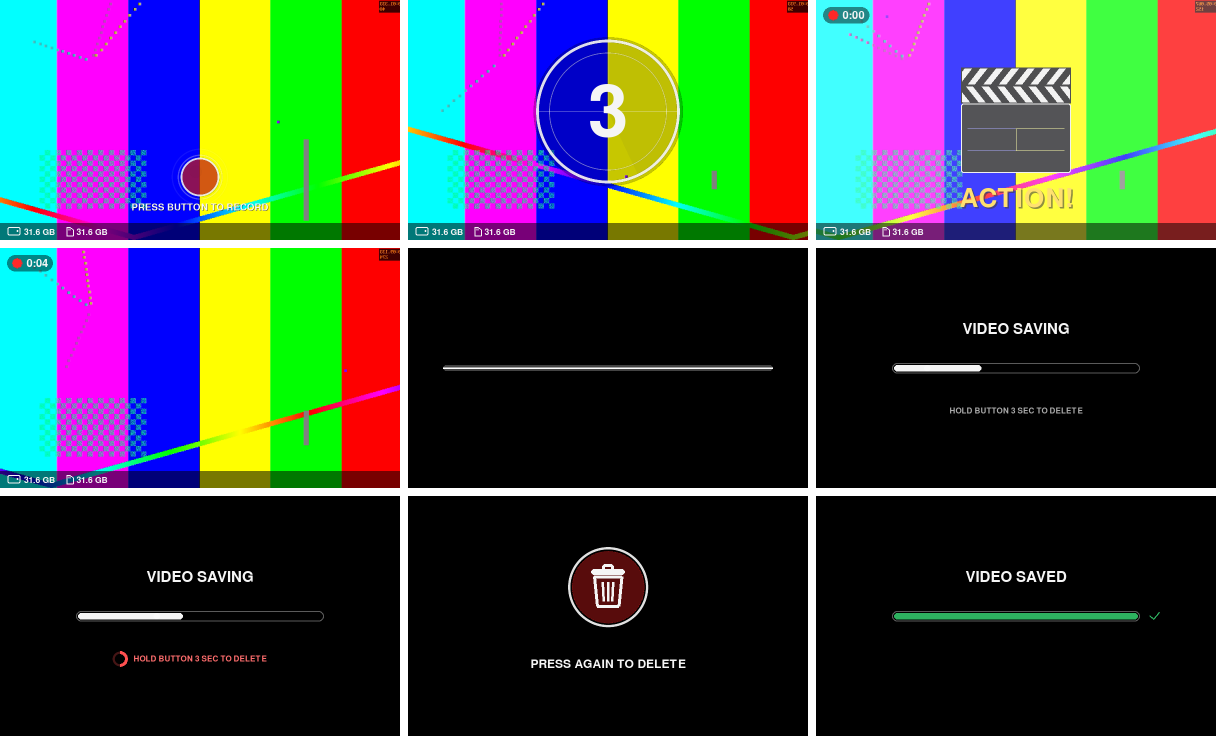
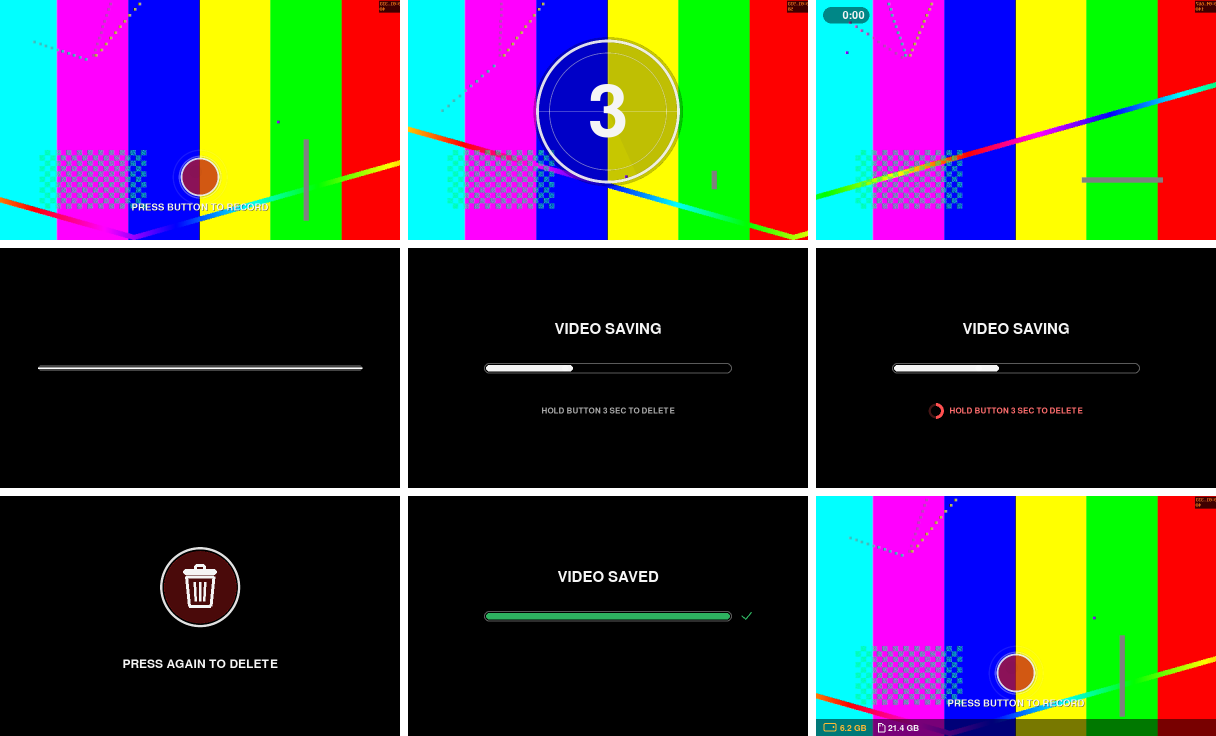
Confession Booth: hide free space until nearly full, ACTION! off by default
- The bottom bar only comes up when a drive has less than low_free_mb
  (8 GB) left. status_bar = "problems" or "always" brings back the
  previous behaviour.
- Recording starts straight after the 3-2-1; the clapperboard ACTION!
  animation is now opt-in (action_animation = true).

Claude-Session: https://claude.ai/code/session_01DPLfCfg8tPcdB8RBsJRF5o

diff --git a/booth/app.py b/booth/app.py
@@ -1,6 +1,6 @@
 """The booth: one screen, one button (with a light in it).
 
-idle --press--> 3-2-1 + clapperboard --> recording --press--> TV switch-off,
+idle --press--> 3-2-1 (+ clapperboard if switched on) --> recording --press--> TV switch-off,
 black --> "VIDEO SAVING" + loading bar (hold 3 s, then press again = delete)
 --> "VIDEO SAVED" --> idle.
 Hold the button for 30 s at any time: finish up, unmount the SSD, power off.
@@ -291,7 +291,8 @@ class App:
         el = now - self.state_t
         if self.state == "countdown":
             n = cfg["countdown_from"]
-            if el >= n + self.ui.CLAP_AT and self.recorder.action_at is None:
+            clap = self.ui.CLAP_AT if cfg["action_animation"] else 0.0
+            if el >= n + clap and self.recorder.action_at is None:
                 self.recorder.mark_action()
                 self.clapper_t0 = self.state_t + n
                 self.set_state("recording")
@@ -379,25 +380,39 @@ class App:
                 n = cfg["countdown_from"]
                 if el < n:
                     ui.countdown(n - int(el), el % 1.0)
-                else:
+                elif cfg["action_animation"]:
                     ui.clapper(el - n)
             elif st == "recording":
-                ui.clapper(now - self.clapper_t0)
+                if cfg["action_animation"]:
+                    ui.clapper(now - self.clapper_t0)
                 ui.recording(self.recorder.elapsed(),
                              cfg["max_record_seconds"] - self.recorder.elapsed(), now)
             elif st == "error":
                 ui.saved(False, el)
 
+        if now - self._snap_t > 0.5:
+            self._snap = self.storage.snapshot()
+            self._snap_t = now
         if st not in ("stopping", "review", "confirm", "deleted") and \
-                not (st == "done" and el < DONE_SHOW):
-            if now - self._snap_t > 0.5:
-                self._snap = self.storage.snapshot()
-                self._snap_t = now
+                not (st == "done" and el < DONE_SHOW) and self._status_visible(self._snap):
             ui.status_bar(self._snap, bool(self.mic), now)
 
         if self._hold_kind(now) == "shutdown":
             span = cfg["hold_shutdown_seconds"] - cfg["hold_feedback_after"]
             ui.hold((now - self.press_t - cfg["hold_feedback_after"]) / span)
+
+    def _status_visible(self, snap):
+        """The free-space bar only comes up when it matters (see status_bar setting)."""
+        mode = self.cfg["status_bar"]
+        if mode == "always":
+            return True
+        drives = [snap.get("ssd", {}), snap.get("sd", {})]
+        if any(d.get("low") for d in drives):
+            return True
+        if mode == "problems":
+            return bool(snap.get("damaged") or snap.get("undervolt") or not self.mic
+                        or any(d.get("level") in ("error", "missing") for d in drives))
+        return False
 
     def _draw_camera(self, now):
         if self.camera is None or (not self.camera.ok and self.state not in ("countdown",
@@ -437,7 +452,8 @@ class App:
         elif st == "idle":
             pattern = "idle" if self.camera and self.camera.ok else "problem"
         elif st == "countdown":
-            pattern = "countdown" if now - self.state_t < self.cfg["countdown_from"] else "action"
+            pattern = "countdown" if now - self.state_t < self.cfg["countdown_from"] \
+                or not self.cfg["action_animation"] else "action"
         elif st == "recording":
             pattern = "recording"
         elif st == "confirm":

diff --git a/booth/config.py b/booth/config.py
@@ -64,6 +64,9 @@ DEFAULTS = {
 
     # --- Recording --------------------------------------------------------
     "countdown_from": 3,
+    # Clapperboard + "ACTION!" after the countdown. Off = recording starts
+    # straight after "1".
+    "action_animation": False,
     "max_record_seconds": 300,   # auto stop
     "ignore_stop_for": 1.0,      # ignore a 2nd press right after ACTION
     # After STOP: TV switch-off, black, then the "saving" screen with a bar.
@@ -92,6 +95,10 @@ DEFAULTS = {
     "copy_mb_per_s_while_recording": 6,
 
     # --- Screen -----------------------------------------------------------
+    # Free-space bar at the bottom: "when_full" (only when a drive is nearly
+    # full, i.e. under low_free_mb), "problems" (also for drive faults, missing
+    # SSD/mic, power warnings) or "always".
+    "status_bar": "when_full",
     "fullscreen": True,
     "window_size": "800x480",    # only when fullscreen = false
     "idle_text": "PRESS BUTTON TO RECORD",

diff --git a/tests/run_headless.py b/tests/run_headless.py
@@ -84,7 +84,8 @@ print("recording mode:", app.mode)
 # ---- clip 1: keep
 press()
 run(0.4); shot("02_countdown")
-run(until=state("recording")); run(0.15); shot("03_action")
+run(until=state("recording")); run(0.15); shot("03_recording_starts")
+assert not app._status_visible(app._snap), "free-space bar should be hidden"
 run(4.0); shot("04_recording")
 press()
 run(0.12); shot("05_tv_off_squash")

diff --git a/booth/storage.py b/booth/storage.py
@@ -109,7 +109,7 @@ class Drive:
 
     def snapshot(self):
         return {"present": self.present, "level": self.level, "free": self.free,
-                "errors": dict(self.errors)}
+                "low": self.present and self.low, "errors": dict(self.errors)}
 
 
 def _mounts():

diff --git a/README.md b/README.md
@@ -1,16 +1,16 @@
 # Confession Booth (Raspberry Pi 3B+)
 
 A reality-TV "confession booth" for a party. Guests step in front of the webcam, press the big red
-button, get a 3-2-1 countdown and a clapperboard **ACTION!**, say their piece, and press the button
+button, get a 3-2-1 countdown, say their piece, and press the button
 again to stop. Every clip is saved as an MP4 to an external SSD **and** the microSD card, then checked.
 
-![Screens: idle, countdown, ACTION, recording, TV switch-off, saving, hold to delete, confirm delete, saved](docs/screens.png)
+![Screens: idle, countdown, recording, TV switch-off, saving, hold to delete, confirm delete, saved, nearly-full warning](docs/screens.png)
 *(Screenshots from the built-in test picture. On the booth it's the live camera.)*
 
 - **Idle:** live camera (mirrored like a mirror) with a slightly see-through red button and
   `PRESS BUTTON TO RECORD`. The light in the button slowly breathes.
-- **Press:** 3-2-1 film-leader countdown (the button flashes with each number), then a clapperboard
-  snaps shut with a flash: **ACTION!**
+- **Press:** 3-2-1 film-leader countdown (the button flashes with each number), then recording
+  starts. (A clapperboard **ACTION!** animation can be switched on with `action_animation = true`.)
 - **Recording:** a small flashing red dot and the time. The button light flashes with the dot.
 - **Press again:** the picture switches off like an old TV (squashes to a line, then a dot), 2 s of
   black, then **VIDEO SAVING** with a loading bar (at least 5 s) and
@@ -18,8 +18,9 @@ again to stop. Every clip is saved as an MP4 to an external SSD **and** the micr
 - **Delete:** on the saving screen, hold the button for 3 s (a red ring fills, the light flickers
   faster), let go, then press once more within 6 s (`PRESS AGAIN TO DELETE`, light blinking fast).
   The clip is removed from both drives: **VIDEO DELETED**. Not pressed = kept.
-- **Bottom bar:** free space on the SSD (box icon) and microSD (card icon). Icons on the right
-  appear only when something needs attention (see [Status bar](#status-bar)).
+- **Free space:** nothing on screen normally. When a drive is nearly full (under 8 GB left), a bar
+  comes up at the bottom with the free space on the SSD (box icon) and microSD (card icon)
+  (see [Status bar](#status-bar)).
 - **Hold the button for 30 s:** a ring fills up from 2 s; at 30 s the recording (if any) is saved,
   the SSD is unmounted and powered off (SSD icon turns green ✓), then the Pi shuts down.
   Let go before 30 s to cancel.
@@ -165,6 +166,10 @@ A record of every clip and every check (including deleted ones) is kept in
 `/var/lib/confession-booth/manifest.json` (and copied to the SSD as `booth-manifest.json`).
 
 ## Status bar
+
+Hidden unless a drive is nearly full (`low_free_mb`, 8 GB). Set `status_bar = "problems"` in
+`/etc/confession-booth/config.toml` to also bring it up for drive faults, a missing SSD or mic, and
+power warnings, or `"always"` to keep it on screen. Drive faults are always in the log either way.
 
 | Shows | Means |
 |-------|-------|
